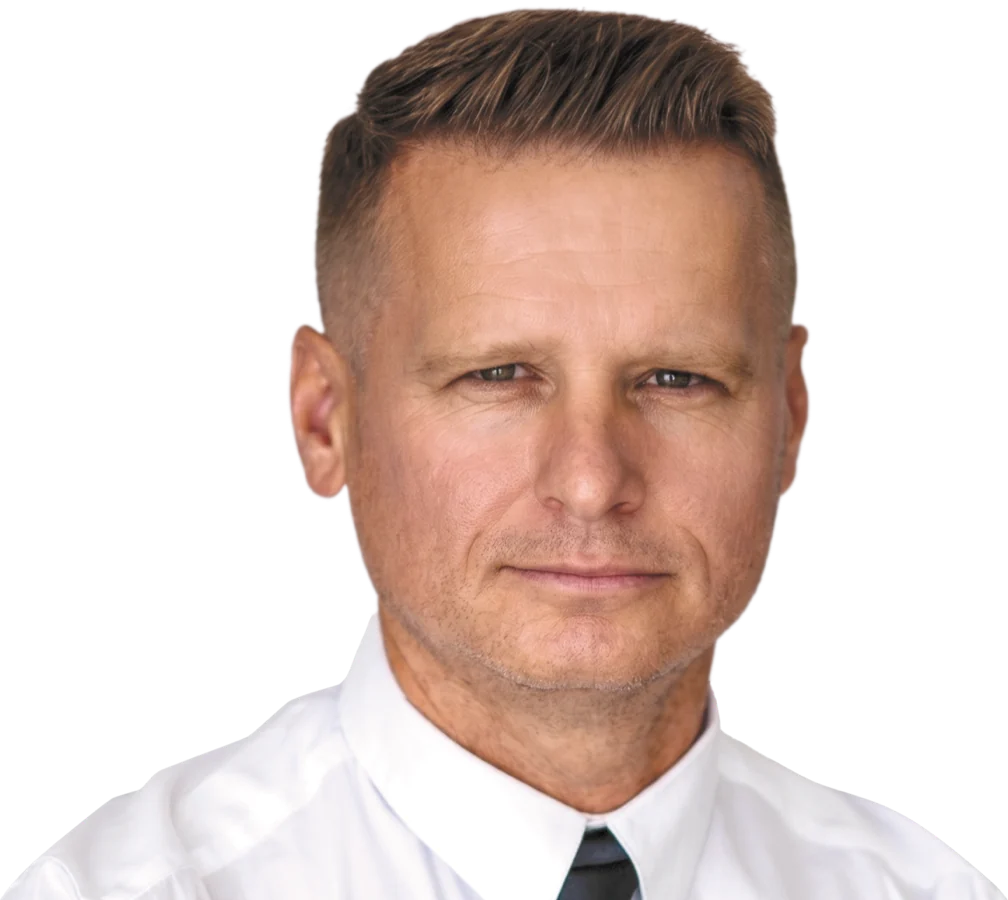
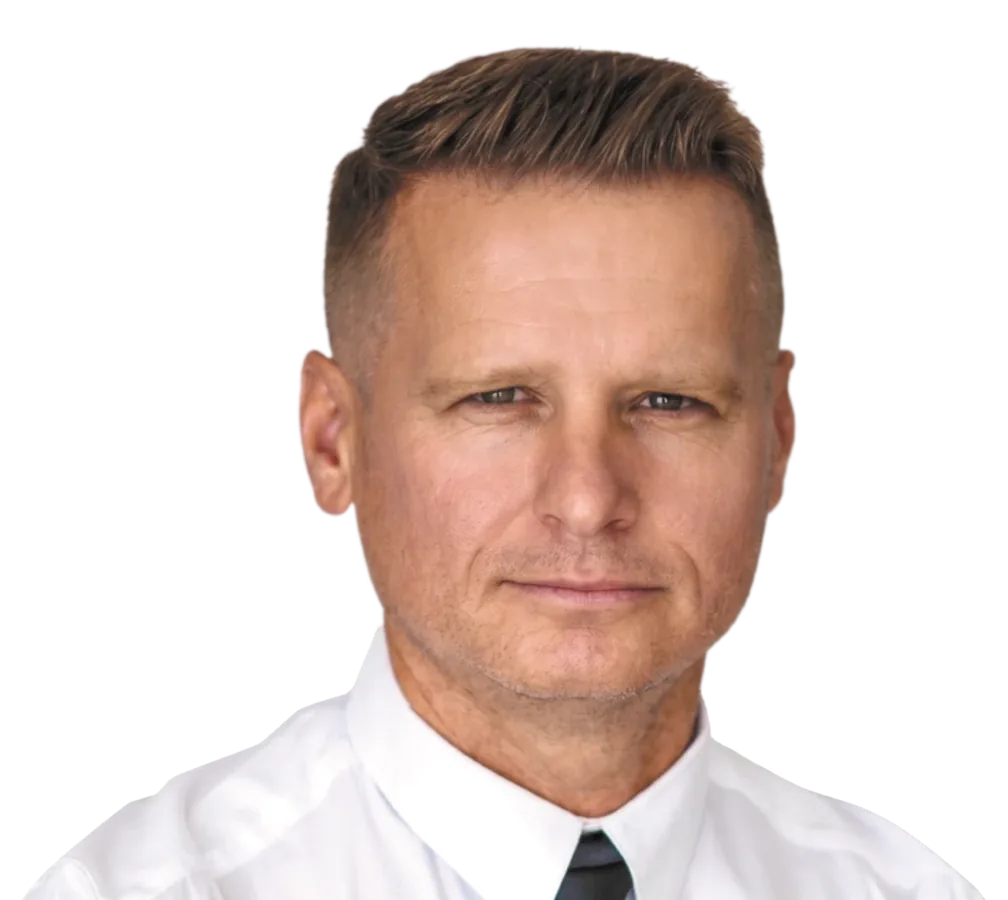
Mobil a tablet: karty, spoločná fotka, biely pás a čierny bar
Portréty: Mišákovej a Vaňovi bol odrezaný vrch hlavy (0 px nad temenom), Húserkovi zostávalo 6 px. Prekreslené zo zdrojových PNG tak, aby mal každý nad hlavou 45–51 px voľného miesta. Súbory pritom klesli z 273 na 190 KB.

Karty s vyjadreniami na mobile: fotka visela nad kartou a pod ňou bola prázdna biela plocha. Prestavané na mriežku – citát cez celú šírku, pod ním fotka stojí na spodnej hrane karty a podpis je vpravo vedľa nej. Rovnaká logika ako na desktope. Karta je zo 290 na 264 px.

Spoločná fotka a biely pás s číslami sú pod 1150 px roztiahnuté na celú šírku. Oboje rovnako, takže mená naďalej sedia pod ľuďmi – bočné odsadenie je preto v percentách (5,1 %), nie v pixeloch. Fotka je na telefóne 1,6× väčšia.

Rozpad na 3×3 posunutý z 1150 na 660 px. Na tablete tak zostáva jeden rad deviatich mien – overené na 700, 768, 1024 aj 1150 px, nikde sa meno nezalamuje.

Veža hradu nesedela v medzere headlinu, bola o 27 px nižšie. Hrot veže odmeraný priamo v súbore (44,9 % šírky, 26,1 % výšky), poloha pozadia dopočítaná na 21 % / 81,8 %. Odchýlka je teraz 0–3 px.

Čierny bar prepočítaný z referencie: verzálka tvorí 79,3 % výšky pásu (bolo 40,7 %) a text vyplní 98 % jeho šírky (bolo 80,4 %). Písmo sa viaže na šírku pásu delenú 25,165. Mobilná výnimka zrušená – jedno pravidlo pre všetky šírky, bez skoku pri 700 px.

diff --git a/index.html b/index.html
@@ -80,27 +80,42 @@ body{
   display:flex; flex-direction:column;
 }
 
-/* čierny pás – výška 3,87 % šírky bloku, zmerané */
+/* ČIERNY PÁS
+   Všetko odmerané z referencie (obrázok 1650×112):
+     pás 78 px, inkúst písma 62 px  → inkúst = 79,5 % výšky pásu
+     čierne nad písmom 4 px, pod 12 px
+     text vyplní 98,1 % šírky pásu, bočne 14 / 16 px
+     oddeľovač 79 px celkom, z toho čiarka 64 px a medzery po 7,5 px
+   Prepočítané na veľkosť písma F (font má inkúst 0,945 F a pri
+   line-height:1 trčí 0,034 F nad box a má 0,089 F rezervy pod pätou):
+     padding .096em zhora aj zdola → pás 1,192 F, inkúst 79,3 % (referencia 79,5)
+     medzera .12em, čiarka 1em, bočne .24em
+   Text aj s oddeľovačmi meria 24,686 em, s bočným odsadením 25,165 em.
+   Preto F = šírka pásu / 25,165 – vtedy text pás presne vyplní. */
 .topbar{
-  /* šírka ako headline, a leží presne na hornej hrane fotky –
-     polovicou na oranžovom okraji, polovicou na fotke */
-  width:var(--measure); margin:0 auto;
+  /* Šírka ako headline, ale nikdy nie taká úzka, aby sa písmo zdrblo:
+     na telefóne sa pás roztiahne na celú šírku. Prechod je plynulý,
+     nie skokom – preto tu nie je žiadna mobilná výnimka. */
+  width:max(var(--measure), min(100%, 360px));
+  margin:0 auto;
   position:relative; z-index:3;
   transform:translateY(-50%);
   background:var(--ink);
   color:var(--white);
   font-family:var(--display);
   font-weight:900;
-  font-size:1.78cqw;
-  letter-spacing:.005em;
+  /* to isté ako šírka pásu delená 25,165 */
+  font-size:max(2.49cqw, min(3.97cqw, 14.3px));
+  line-height:1;
+  letter-spacing:0;
   text-transform:uppercase;
   display:flex; justify-content:center; align-items:center;
-  gap:1.15cqw;
-  padding:.8cqw 1.5cqw;
+  gap:.12em;
+  padding:.096em .24em;
   white-space:nowrap;
 }
-.topbar span{ display:flex; align-items:center; gap:1.15cqw }
-.topbar span::after{ content:""; width:1.9cqw; height:.24cqw; background:currentColor }
+.topbar span{ display:flex; align-items:center; gap:.12em }
+.topbar span::after{ content:""; width:1em; height:max(1px,.045em); background:currentColor }
 .topbar span:last-child::after{ display:none }
 
 /* vzduch medzi headlinom a ľuďmi – tu dýcha hrad */
@@ -190,18 +205,37 @@ body{
   text-transform:uppercase; letter-spacing:-.01em;
 }
 
+/* Pod 1150 px by sa deväť mien do pásu širokého 62,7 % ešte vošlo,
+   ale len tesne – pri 720 px zostávajú štyri pixely rezervy. Preto radšej
+   od 1150 px roztiahneme fotku aj pás na celú šírku. Oboje rovnako,
+   takže pomer medzi ľuďmi a menami zostáva a mená im sedia pod nohami.
+   Bočné odsadenie je preto v %, nie v px: 5,1 % je tá istá hodnota,
+   ktorá vyšla z merania zarovnania na desktope. */
 @media (max-width:1150px){
-  /* 3×3 – tam sa pod ľudí zarovnať nedá, posun vypíname */
-  .team__list{ display:grid; grid-template-columns:repeat(3, 1fr);
-               gap:var(--s5) var(--s3); justify-content:stretch;
-               width:auto; margin:-1px 0 0; padding:var(--s5) var(--s3) }
-  .team__item{ align-items:center; text-align:center }
-  .team__item{ transform:none }
+  .team{ container-type:inline-size }   /* aby cqw bolo naozaj šírka pásu */
+
+  .hero__people{
+    width:100%;
+    /* prirodzená výška fotky pri plnej šírke je 47,9 cqw;
+       ukazujeme z nej 63 % – rovnaký rez po pás ako na desktope */
+    height:30.2cqw;
+  }
+
+  .team__list{
+    width:100%; margin:-6.25cqw 0 0;   /* pás leží na 50 % výšky fotky */
+    padding:var(--s4) 5.1%;
+    gap:var(--s2);
+  }
+  .team__fn, .team__sn{ white-space:nowrap }
 }
-@media (max-width:560px){
-  /* deväť ľudí = 3×3, nie dva stĺpce s jedným visiacim */
-  .team__photo{ width:100% }
-  .team__list{ padding:var(--s5) var(--s2); gap:var(--s5) var(--s1) }
+
+/* Až na telefóne deväť mien do radu naozaj nejde – tam 3×3. */
+@media (max-width:660px){
+  .team__list{
+    display:grid; grid-template-columns:repeat(3, minmax(0,1fr));
+    gap:var(--s4) var(--s2); padding:var(--s4) var(--s3);
+  }
+  .team__item{ align-items:center; text-align:center }
 }
 
 
@@ -265,16 +299,33 @@ body{
 
 @media (max-width:860px){
   .says{ grid-template-columns:1fr }
-  .say, .say--right{ padding:0 var(--s5) var(--s5); text-align:center;
-                     min-height:0; display:block }
-  .say__photo{ position:relative; left:auto; right:auto; height:auto;
-               width:46%; margin:-9% auto 0; display:block; overflow:visible }
-  .say--right .say__photo{ right:auto }
-  .say__photo img{ width:100%; height:auto; object-fit:fill }
-  .say__body{ margin-top:var(--s4) }
-  .say__quote{ text-align:left }
-  .say__name, .say--right .say__name{ text-align:center }
-  .say__mark{ font-size:80px }
+
+  /* Na mobile je karta mriežka: citát cez celú šírku, pod ním fotka vľavo
+     a podpis vpravo. Fotka tak stojí na spodnej hrane karty presne ako na
+     desktope – plochý strih torza už nevisí uprostred bielej plochy. */
+  .say, .say--right{
+    display:grid; grid-template-columns:46% 1fr;
+    grid-template-areas:"citat citat" "fotka meno";
+    align-items:end; column-gap:var(--s3); row-gap:var(--s4);
+    padding:var(--s5) var(--s5) 0; min-height:0;
+    overflow:hidden;            /* zaoblenie karty oreže spodok fotky */
+    text-align:left;
+  }
+  /* aby sa citát, meno aj fotka stali políčkami tej istej mriežky */
+  .say__body{ display:contents }
+
+  .say__quote{ grid-area:citat; text-align:left }
+
+  .say__photo{ grid-area:fotka; position:static; width:100%; height:auto;
+               margin:0 0 0 calc(-1 * var(--s3));   /* bližšie k okraju, ako na desktope */
+               border-radius:0; overflow:visible }
+  .say--right .say__photo{ left:auto; right:auto }
+
+  .say__name, .say--right .say__name{
+    grid-area:meno; align-self:end; text-align:right; margin:0 0 var(--s5) }
+
+  .say__mark{ font-size:64px }
+  .say__mark--b{ right:var(--s3); bottom:var(--s2) }
 }
 
 /* mená v pásme, ktoré vedú na kartu */
@@ -320,17 +371,6 @@ body{
   /* headline zostáva dvojriadkový ako na plagáte, len bez medzery pre vežu */
   .hl{ line-height:.84 }
   .hl__line--2{ display:block }
-
-  /* 4 položky sa do riadku nezmestia – dva čisté riadky bez visiacej čiarky */
-  .topbar{
-    display:grid; grid-template-columns:auto auto;
-    justify-content:center; align-items:center;
-    gap:5px 8px; padding:8px; margin-top:12px;
-    font-size:10.5px; white-space:nowrap;
-  }
-  .topbar span{ gap:8px }
-  .topbar span::after{ width:11px; height:1.5px }
-  .topbar span:nth-child(2)::after{ display:none }
 }
 
 /* Na telefóne na výšku sa medzera pre vežu ZMESTÍ – zmerané: 21,5 % šírky
@@ -338,12 +378,15 @@ body{
    (181 %) aj poloha veže (31,1 %) platia na každej šírke rovnako. */
 @media (max-width:700px) and (orientation:portrait){
   .hero{ height:102vw }
-  /* zoom 146 % je najmenší, pri ktorom fotka pokryje celú výšku bloku;
-     poloha 19,5 % posadí vežu do medzery */
+  /* Zoom 146 % je najmenší, pri ktorom fotka pokryje celú výšku bloku.
+     Poloha je dopočítaná z fotky, nie odhadnutá: v súbore 1400×1241 je
+     hrot veže na 44,9 % šírky a 26,1 % výšky (odmerané po pixeloch).
+     Pri zoome 146 % z toho vyjde 21 % / 81,8 % – vtedy veža vystúpi
+     do medzery medzi ZA JEDEN a KRAJ a headline naozaj rozdelí. */
   .hero__bg{
     background-image:url("assets/hrad-1400.webp");
     background-size:146% auto;
-    background-position:19.5% 0%;
+    background-position:21% 81.8%;
   }
   .hl__line--2{ display:flex; justify-content:space-between; width:100% }
 }
